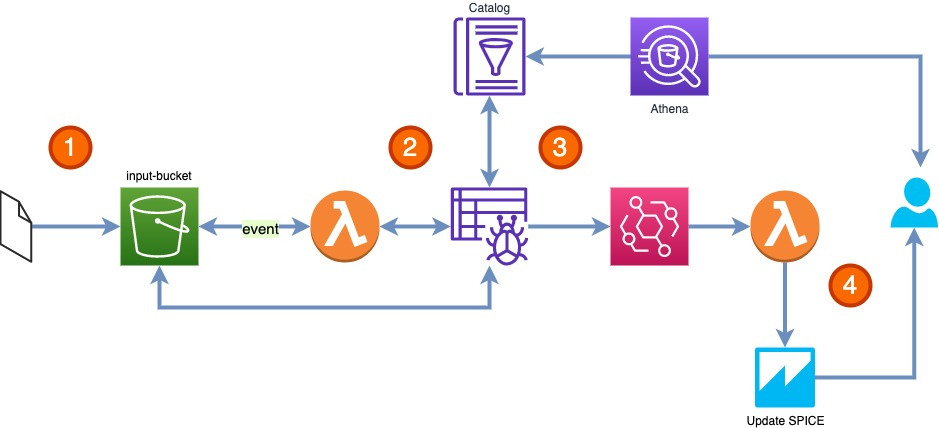
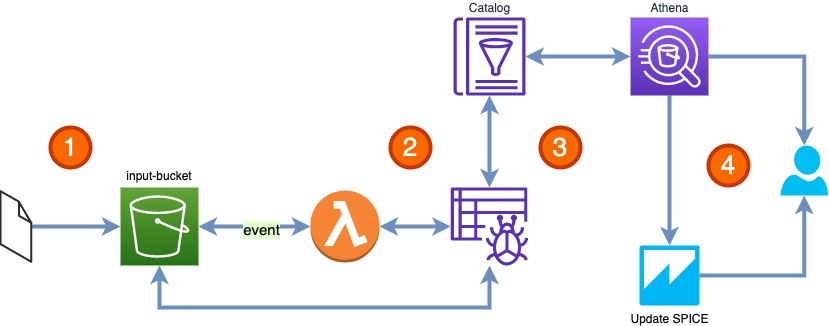
Readme

Changed region(s): [[0.0, 0.0, 1.0, 1.0], [0.8745, 0.6135, 0.9349, 0.7362], [0.0, 0.4294, 0.0302, 0.5215]]

diff --git a/first-steps-analytics/app.py b/first-steps-analytics/app.py
@@ -20,7 +20,7 @@ FirstStepsAbalyticsStack(app, "FirstStepsAbalyticsStack",
     # Uncomment the next line if you know exactly what Account and Region you
     # want to deploy the stack to. */
 
-    #env=cdk.Environment(account='123456789012', region='us-east-1'),
+    #env=cdk.Environment(region='us-east-1'),
 
     # For more information, see https://docs.aws.amazon.com/cdk/latest/guide/environments.html
     )

diff --git a/first-steps-analytics/first-steps-analytics/first_steps_analytics_stack.py b/first-steps-analytics/first-steps-analytics/first_steps_analytics_stack.py
@@ -92,6 +92,7 @@ class StartingEltFromFileStack(Stack):
             database_name=glue_db.database_name,
             schedule=None,
             role=glue_role.role_arn,
+            table_prefix="demoetl_",
             targets={"s3Targets": [{"path": "s3://{}/{}".format(input_bucket.bucket_name, S3_RAW_PREFIX)}]}
         )
 

diff --git a/README.md b/README.md
@@ -16,7 +16,7 @@ El **Data Analytics** es importante para las empresas sin importar su tamaño, s
 
 La data se puede generar de varias formas, recopilando clics de una página web, través de una API, encuestas, bases de datos locales, si sabés donde mirar prácticamente todo es data. El desafío está en almacenarla en un mismo lugar, crear Data Lakes, para poder hacer cruces y análisis con ella, hacer uso de ella. 
 
-En este blog te voy a mostrar cómo crear un pequeño pipeline de **Data Analytics**, donde se deja un archivo en un storage y de ahí es procesado para crear una tabla dentro de una base de datos de la cual se alimenta un dasboard de Business Inteligence. 
+En este blog te voy a mostrar cómo crear un pequeño pipeline de **Data Analytics**, donde se deja un archivo en un storage y de ahí es procesado para crear una tabla de la cual se alimentá un dahsboard de Business Inteligence. 
 
 Y.. Lo podrás desplegar listo para usar con un par de comandos usando [CDK](https://aws.amazon.com/es/cdk/?nc1=h_ls) 🚀 👩🏻🚀.
 
@@ -26,9 +26,9 @@ Y.. Lo podrás desplegar listo para usar con un par de comandos usando [CDK](htt
 
 ![fase1](imagen/fase1.jpg)
 
-1. Se deja el archivo en el Bucket de [Amazon S3](https://aws.amazon.com/es/s3/), lo cual activa la [AWS Lambda](https://aws.amazon.com/es/lambda/) que gatilla el [AWS Glue Crawler](https://docs.aws.amazon.com/glue/latest/dg/add-crawler.html).
-2. El [AWS Glue Crawler](https://docs.aws.amazon.com/glue/latest/dg/add-crawler.html) explora el nuevo archivo, y en paralelo gatilla un evento en EnventBridge que aciva la [AWS Lambda](https://aws.amazon.com/es/lambda/) encargada de actualizar a QuickSight una vez finalice la exploración. 
-3. Una vez finalizada la exploracion de [AWS Glue Crawler](https://docs.aws.amazon.com/glue/latest/dg/add-crawler.html) este actualiza el [AWS Glue Data Catalog](https://docs.aws.amazon.com/glue/latest/dg/populate-data-catalog.html) , el cual a su vez actualiza la tabla en [Amazon Athena](https://aws.amazon.com/es/athena/) , el [Amazon EventBridge](https://aws.amazon.com/es/eventbridge/) informa a la [AWS Lambda](https://aws.amazon.com/es/lambda/) para que pueda actualizar el almacenamiento de Spice en [Amazon QuickSight](https://aws.amazon.com/es/quicksight/) desde la data en [Amazon Athena](https://aws.amazon.com/es/athena/). 
+1. Se deja el archivo en el Bucket de [Amazon S3](https://aws.amazon.com/es/s3/), lo cual activa la [AWS Lambda](https://aws.amazon.com/es/lambda/) que inicia el [AWS Glue Crawler](https://docs.aws.amazon.com/glue/latest/dg/add-crawler.html).
+2. El [AWS Glue Crawler](https://docs.aws.amazon.com/glue/latest/dg/add-crawler.html) explora el nuevo archivo para identificar el esquema (columas), tipo de datos que lo conforman (int, string..etc).
+3. Una vez finalizada la exploración de [AWS Glue Crawler](https://docs.aws.amazon.com/glue/latest/dg/add-crawler.html) este crea/actualiza la tabla asociada a la data descubierta en el [AWS Glue Data Catalog](https://docs.aws.amazon.com/glue/latest/dg/populate-data-catalog.html), el cual a su vez permite que se acceda a la tabla utilizando [Amazon Athena](https://aws.amazon.com/es/athena/). 
 4. Queda el DashBoard de [Amazon QuickSight](https://aws.amazon.com/es/quicksight/) listo para hacer Data Analytics.  
 
 ---
@@ -51,7 +51,7 @@ Para realizar el despliegue de los recursos, debes instalar y configurar la cli 
 
 ```bash
 git clone https://github.com/elizabethfuentes12/first-steps-with-analytics-in-aws
-cd first-steps-with-analytics-in-aws/first-steps-abalytics
+cd first-steps-with-analytics-in-aws/first-steps-analytics
 ```
 
 ### 3. Creamos e iniciamos el ambiente virtual
@@ -66,7 +66,7 @@ Este ambiente virtual (venv) nos permite aislar las versiones del python que vam
 
 ### 4. Instalamos los requerimientos para el ambiente de python 
 
-Para que el ambiente pueda desplegarse, debemos agregar todas las librerías CDK necesarias en el archivo  [requirements.txt](https://github.com/elizabethfuentes12/AWS_ScanVideoS3Rekognition/blob/main/ScanVideoS3Rekognition/requirements.txt)
+Para que el ambiente pueda desplegarse, debemos agregar todas las librerías CDK necesarias en el archivo  [requirements.txt](https://github.com/elizabethfuentes12/first-steps-with-analytics-in-aws/first-steps-analytics/requirements.txt)
 
 
 ```zsh
@@ -75,7 +75,13 @@ pip install -r requirements.txt
 
 ### 5. Desplegando la aplicación
 
-Previo al despliegue de la aplicación en AWS Cloud debemos asegurarnos que este sin errores para que no salten errores durante el despliegue, eso lo hacemos con el siguiente comando que genera un template de cloudformation con nuestra definición de recursos en python.
+Si deseas desplegar tu solución en una region especifica debes modificar el archivo [app.py](https://github.com/elizabethfuentes12/first-steps-with-analytics-in-aws/first-steps-analytics/app.py) la siguiente linea: 
+
+```zsh
+env=cdk.Environment(region='us-east-1')
+```
+
+Antes de esplegar debemos asegurarnos que el código este sin errores, eso lo hacemos con el siguiente comando donde se genera un template de cloudformation con nuestra definición de recursos en python.
 
 ```bash
 cdk synth
@@ -95,7 +101,7 @@ Procedemos a desplegar la aplicación:
 cdk deploy
 ```
 
-### 7. Tips Para el despliegue
+### 6. Tips Para el despliegue
 
 
 El despliegue lo utiliza utilizando las credenciales por defecto de AWS, si desea usar un profile específico agregue --profile <nombre> al comando deploy:
@@ -113,14 +119,41 @@ cdk deploy
 
 ---
 
-### 8. La aplicación
+### 7. La aplicación
 
+Este CDK creará los siguientes elementos:
+- Bucket de S3 con el nombre **starting-etl-from-file-inputfilesXXXXXXXXXX**
+- Lambda Function con el nombre **process_new_file-STARTING-ETL-FROM-FILE**, el Glue Crawler se inicia con las siguientes lineas de comando dentro de la Lambda.
+
+``` python
+    # Comenzamos la ejecución del crawler
+    response = boto3.client('glue').start_crawler(
+        Name= os.environ.get('CRAWLER_NAME')
+    )
+```
+
+Entra acá [Boto3 para glue](https://boto3.amazonaws.com/v1/documentation/api/latest/reference/services/glue.html#Glue.Client.start_crawler) si quieres aprender más sobre estas líneas. 
+
+- Una base de datos en Glue con el nombre **demo_db**
+- Glue Crawler con el nombre **raw-crawler-STARTING-ETL-FROM-FILE**, al correr el crawler se creara una tabla con prefijo **demoetl_**.
+
+Una vez verificado que los elementos se crearon de forma correcta, procede a cargar el archivo en el Bucket de S3 creado, este archivo debe tener formato .csv, .txt o .json, y todos los archivos que cargues después deben tener el mismo formato y esquema.
+
+Cuando el Crawler vuelva a estado **Ready** significa que la tabla ya fue creada en la base de datos **demo_db**. 
+
+Puedes ver la cantidad de Tablas creadas/actualizadas y además el tiempo de duración del Crawler. 
+
+![crawler](imagen/crawler.png)
+
+En el Catálogo de AWS Glue puedes acceder a la base de dato y a las tablas creadas:
+
+![catalogo](imagen/catalogo.png)
 
 
 
 ---
 
-### 9. Eliminar el stack de la aplicación
+### 8. Eliminar el stack de la aplicación
 
 Esta aplicación no elimina el bucket si contiene videos, por lo que primero debes vaciar el bucket y luego proceder a destruir el stak. 
 
@@ -174,9 +207,6 @@ ___
 
 ### Amazon Athena: 
 [Amazon Athena](https://aws.amazon.com/es/athena/) es un servicio de consultas interactivo que facilita el análisis de datos en Amazon S3 con SQL estándar. Athena no tiene servidor, de manera que no es necesario administrar infraestructura y solo paga por las consultas que ejecuta.
-
-### Amazon EventBridge: 
-[Amazon EventBridge](https://aws.amazon.com/es/eventbridge/) es un bus de eventos sin servidor que facilita la creación de aplicaciones basadas en eventos a escala mediante eventos generados por sus aplicaciones, aplicaciones integradas de software como servicio (SaaS) y servicios de AWS.
 
 ### Amazon QuickSight: 
 [Amazon QuickSight](https://aws.amazon.com/es/quicksight/) es un servicio de análisis empresarial muy rápido, fácil de utilizar y administrado en la nube que facilita a todos los empleados de una organización la compilación de visualizaciones, la realización de análisis ad-hoc y la obtención rápida de información empresarial a partir de sus datos en cualquier momento y en cualquier dispositivo.
